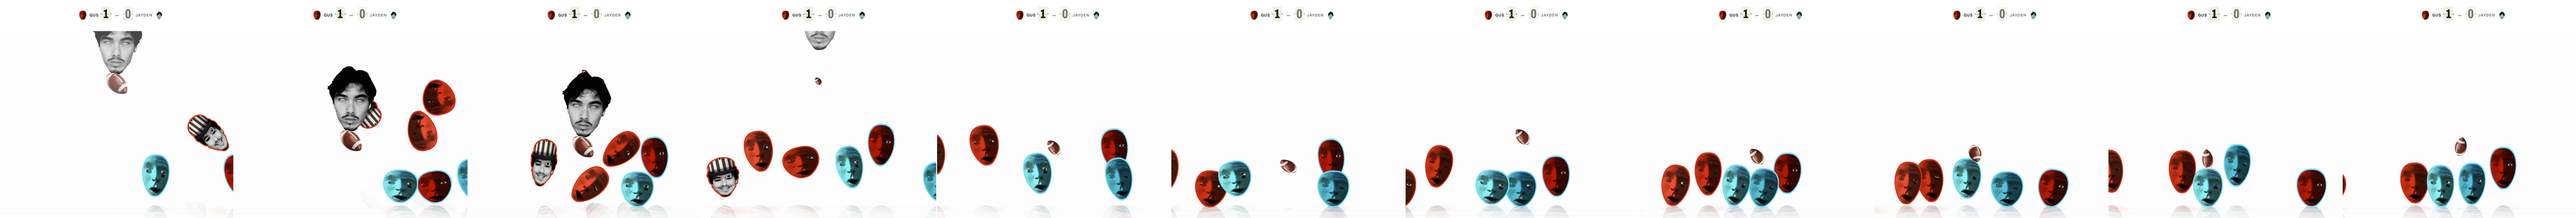
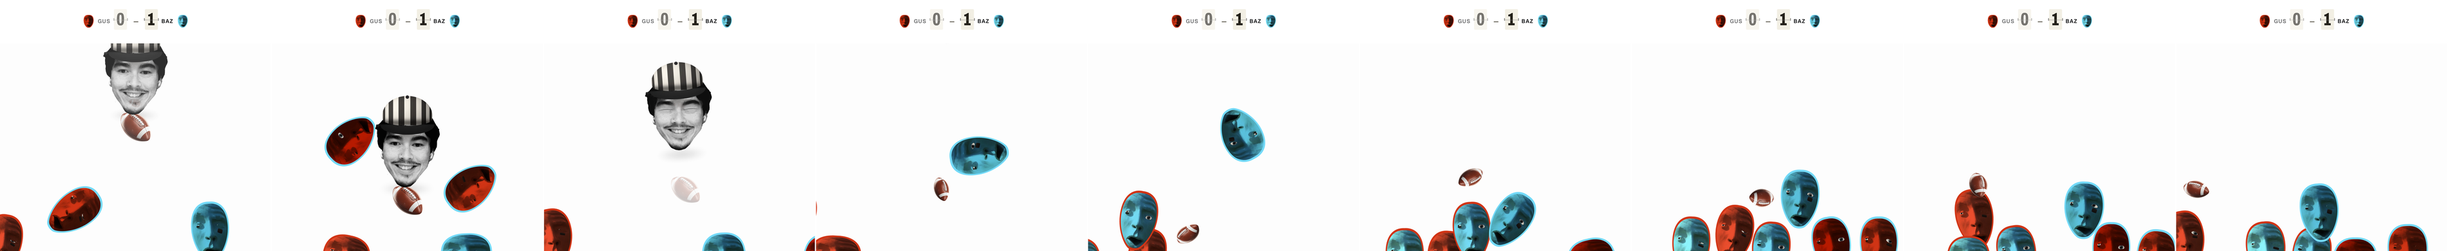
The draft comes down to the length he actually ships, and the head gets its eyes back
"the draft is a bit long I had shortened all the case studies because of length
focusing only on qualitative results snd visual."

Measured the target rather than guessing it: the five live case studies average
491 words (cluster 294, strata 412, ucdavis 526, apollo 602, bearings 622), 4-7
sections, median paragraph 35 words. v1 was 1,523. v2 is ~470.

What changed, all his notes. The "what is still open" section is gone. One number
per section instead of five, and qualitative where it reads better -- "fewer than
one in five finished", "half of every frozen frame" -- because the precise
figures live in 991 commits if anyone asks and the page does not need them. Every
section now leans on an image instead of a paragraph.

The head-drop strip is recaptured against d3cd492, so the frames show his real
eyes and the referee cap instead of the eyeless plate. The tear strip was
overwritten by a worse 12-frame version mid-session and has been restored from
cfba7be -- 6 frames at 3599x871 reads; 12 at 4000x238 does not.

Still missing one asset: a frozen-player clip for the players section, the only
one without an image.

diff --git a/docs/case-study-league/draft.md b/docs/case-study-league/draft.md
@@ -1,0 +1,132 @@
+# Yowmings League — case study draft v2
+
+Cut to the shipped length. Measured: the five live case studies average **491
+words** (cluster 294, strata 412, ucdavis 526, apollo 602, bearings 622), 4–7
+sections, median paragraph 35 words. v1 was 1,523 — this is ~470.
+
+Changes from v1, all his notes: no "what's still open" section; one number per
+section instead of five; the visuals carry the proof; paragraphs at his length.
+
+---
+
+## Hero
+
+**Yowmings League**
+
+> A game that settles a real draft has to be one nobody can argue with.
+
+**Role** Designer & builder · **Scope** End to end, solo · **Built with** Vanilla
+JS, no framework · **Year** 2026
+
+*[pitch-01-match.png]*
+
+---
+
+## Overview
+
+Every year my friends need a fantasy draft order. A random draw is fair. A game
+is better — but only if everyone believes the result.
+
+Twelve of their faces drop down a marble course to seed a bracket, then play it
+out until someone takes the 1.01. It runs in a browser with no framework and no
+build step.
+
+*[head-02-drop-sequence.png — the head brings the ball on]*
+
+---
+
+## The stakes
+
+### A toy can be wrong. A verdict cannot.
+
+Nobody audits a game they played once. They audit the one that decided who picks
+first, and they do it out loud, while watching.
+
+So "done" stopped meaning "fun" and started meaning "unarguable". Six weeks, 991
+commits, and the interesting work was never the feature — it was the gap between
+what my instruments measured and what the screen actually showed.
+
+---
+
+## The course
+
+### The race worked on the only screen I had measured.
+
+The race seeds the bracket, so if it stalls there is no draft. Swept across
+nineteen viewport sizes, twenty-two races ended with nobody across the line. On
+a TV, fewer than one in five finished.
+
+My theory was the fall. I measured first, and it was the gate: its bar scales
+with the course, its opening never did. **Twenty-two stalled races became zero.**
+
+*[race-00-before-after.png]*
+
+---
+
+## The players
+
+### A head could reach a state with no way out.
+
+Players froze mid-match — rarely, briefly, and exactly the kind of thing that
+gets brought up for a year.
+
+A head could end up falling and not airborne at the same time, which nothing in
+the engine can leave. It was **half of every frozen frame**. The fix had to
+remove the freeze without removing the mess, because the chaos is the point:
+after it, the ball spent *more* time in the air, not less.
+
+---
+
+## The rule
+
+### I argued for the wrong version, and the measurement won.
+
+Balls were passing through the goal without scoring. Real football has no
+ceiling over the uprights, so I removed ours. It fixed the complaint outright.
+
+It also awarded **more than a quarter of goals with the ball in open sky above
+the posts** — a picture that no longer matched its own rule. The version that
+shipped is narrower, and no goal lands above the posts now.
+
+*[goal-01-through-the-uprights.png]*
+
+---
+
+## What I took from it
+
+### Counting is not looking.
+
+Four times in one night an instrument said fine and the screen disagreed. A
+hairline that measured 1px read as a line struck through the score. A layout that
+measured "nothing off-screen" had two elements sitting on top of each other. Two
+captains' names came out invisible on their own bar.
+
+Both lie. The work is knowing which one you are holding.
+
+*[bar-00-before-after.png · goalposts-00-before-after.png]*
+
+---
+
+## Outcome
+
+### It decides something, and nobody argues.
+
+Every race finishes, on every screen I could find. Players stay on their feet.
+Goals look like goals. And the thing it was built to protect survived all of it —
+the winner still is not the halfway leader in two races out of three.
+
+*[photo-01-tear-sequence.png — the loser's photograph, torn]*
+
+---
+
+## Notes for build
+
+- ~470 words, 7 sections, longest paragraph 48 — inside the shipped range.
+- Numbers are qualitative where possible ("fewer than one in five", "half of
+  every frozen frame"). The precise figures live in the commit history if anyone
+  asks; the page does not need them.
+- No "open defects" section, per his note.
+- Still to capture: a frozen-player clip for **The players** (the only section
+  without an image). Everything else is in `assets/`.
+- `head-02-drop-sequence.png` must be **recaptured** — the current frames have
+  the missing-iris bug in them, which is fixed as of `d3cd492`.
